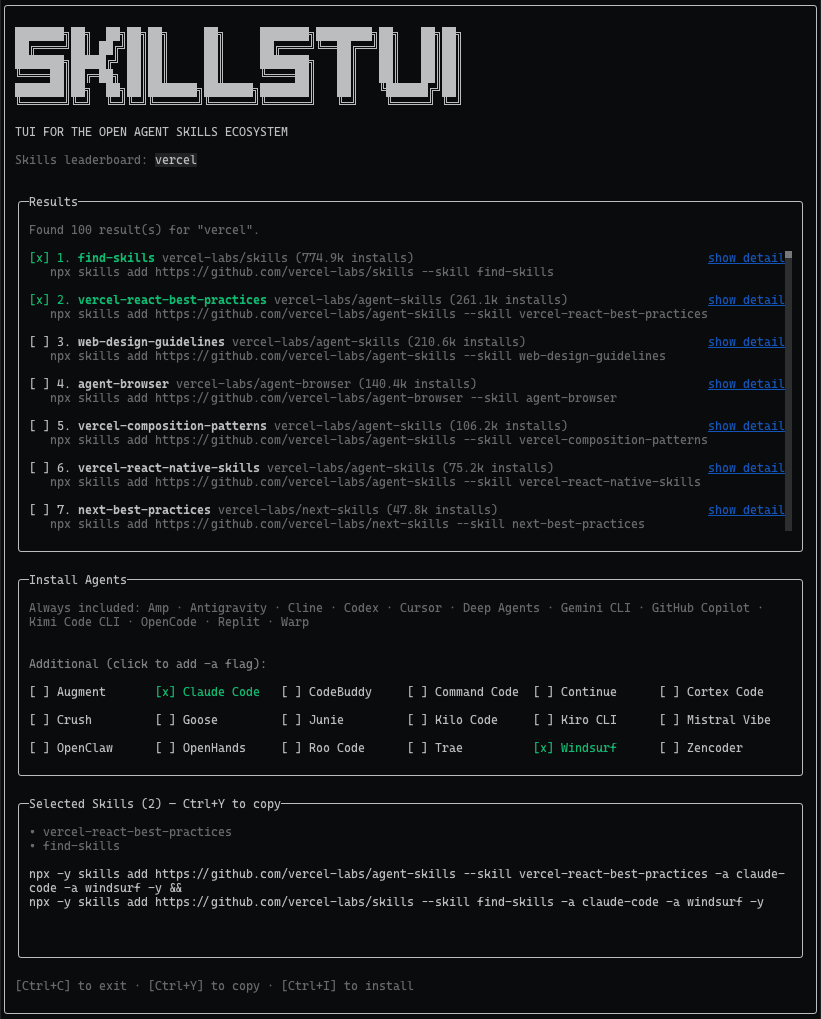
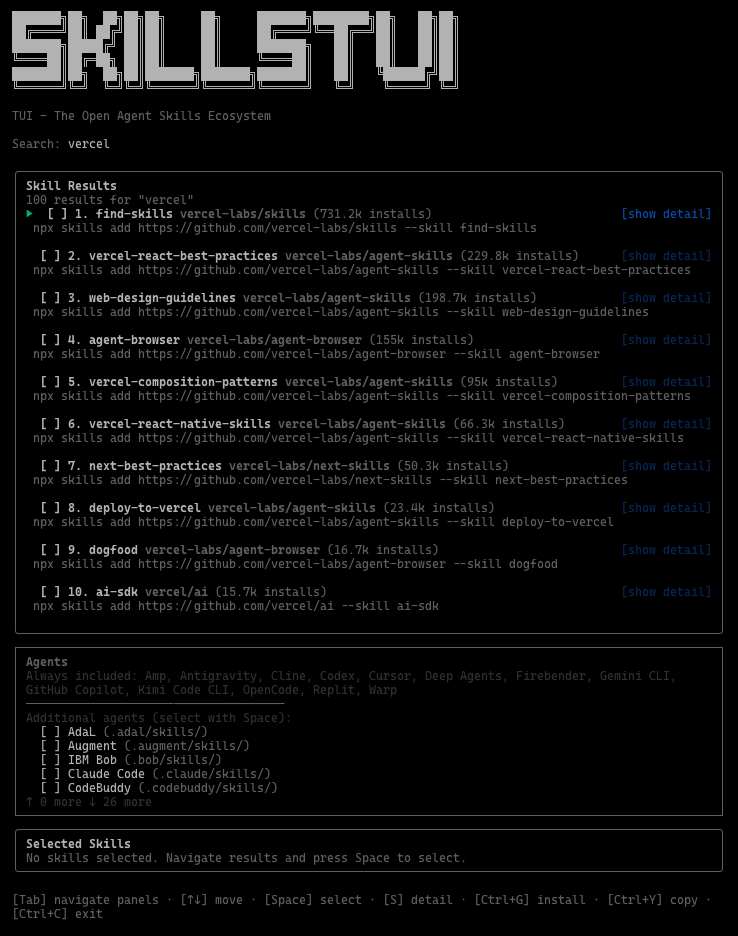
chore: add fullscreen-ink dependency and update UI components
- Integrated 'fullscreen-ink' as a dependency in package.json and bun.lock.
- Modified the main application entry point to utilize fullscreen capabilities.
- Adjusted UI components for improved styling and layout, including color changes and text wrapping.
- Reduced the maximum display lines in SelectionPanel for better usability.

diff --git a/packages/skillsTUI/src/ui/SkillCard.tsx b/packages/skillsTUI/src/ui/SkillCard.tsx
@@ -1,3 +1,4 @@
+import { useScreenSize } from 'fullscreen-ink'
 import { Box, Text } from 'ink'
 import {
   CHECKBOX_CHECKED,
@@ -18,6 +19,8 @@ interface Props {
 }
 
 export function SkillCard({ skill, index, isSelected, isFocused }: Props) {
+  const { width } = useScreenSize()
+  const isWide = width >= 100
   const checkbox = isSelected ? CHECKBOX_CHECKED : CHECKBOX_EMPTY
   const nameColor = isSelected ? COLOR_GREEN : COLOR_WHITE
   const focusIndicator = isFocused ? '▶ ' : '  '
@@ -29,18 +32,23 @@ export function SkillCard({ skill, index, isSelected, isFocused }: Props) {
           <Text color={COLOR_GREEN}>{focusIndicator}</Text>
           <Text color={nameColor} bold>
             {checkbox} {index + 1}. {skill.name}{' '}
-            <Text color={COLOR_GRAY}>{skill.source}</Text>{' '}
+            {isWide && <Text color={COLOR_GRAY}>{skill.source}</Text>}
+            {' '}
           </Text>
           <Text color={COLOR_GRAY}>
             ({formatInstallCount(skill.installs)} installs)
           </Text>
         </Box>
-        <Text color={COLOR_BLUE} dimColor={!isFocused}>
-          {' '}
-          [show detail]
-        </Text>
+        {isWide && (
+          <Text color={COLOR_BLUE} dimColor={!isFocused}>
+            {' '}
+            [detail]
+          </Text>
+        )}
       </Box>
-      <Text color={COLOR_GRAY}> {skill.command}</Text>
+      <Text color={COLOR_GRAY} wrap="truncate-end">
+        {skill.command}
+      </Text>
     </Box>
   )
 }

diff --git a/packages/skillsTUI/src/ui/SelectionPanel.tsx b/packages/skillsTUI/src/ui/SelectionPanel.tsx
@@ -16,7 +16,7 @@ interface Props {
   copyStatus: 'idle' | 'success' | 'error'
 }
 
-const MAX_DISPLAY_LINES = 5
+const MAX_DISPLAY_LINES = 1
 
 export const SelectionPanel = memo(function SelectionPanel({
   selectedSkills,
@@ -81,7 +81,7 @@ export const SelectionPanel = memo(function SelectionPanel({
           <Text color={COLOR_WHITE}>{namesLine}</Text>
           <Box flexDirection="column" marginTop={1}>
             {visibleCommandLines.map((line, i) => (
-              <Text key={i} color={COLOR_GRAY}>
+              <Text key={i} color={COLOR_GRAY} wrap="truncate">
                 {line}
               </Text>
             ))}

diff --git a/packages/skillsTUI/src/ui/App.tsx b/packages/skillsTUI/src/ui/App.tsx
@@ -55,10 +55,10 @@ export function App() {
 
   return (
     <Box flexDirection="column" padding={2}>
-      <Box flexDirection="column" marginBottom={1}>
+      <Box flexDirection="column">
         <Logo />
+        <Text color={COLOR_GRAY}>{SUBTITLE_LINES}</Text>
       </Box>
-      <Text color={COLOR_GRAY}>{SUBTITLE_LINES}</Text>
 
       <Box marginTop={1}>
         <SearchInput

diff --git a/packages/skillsTUI/src/ui/AgentSelector.tsx b/packages/skillsTUI/src/ui/AgentSelector.tsx
@@ -45,7 +45,7 @@ export const AgentSelector = memo(function AgentSelector({
       borderColor={COLOR_GRAY}
       paddingX={1}
     >
-      <Text color={COLOR_GRAY} bold>
+      <Text color={COLOR_WHITE} bold>
         Agents
       </Text>
       <Text color={COLOR_GRAY} dimColor>

diff --git a/packages/skillsTUI/src/index.tsx b/packages/skillsTUI/src/index.tsx
@@ -1,4 +1,6 @@
-import { render } from 'ink'
+import { withFullScreen } from 'fullscreen-ink'
 import { App } from './ui/App.tsx'
 
-render(<App />)
+const app = withFullScreen(<App />)
+await app.start()
+await app.waitUntilExit()

diff --git a/packages/skillsTUI/tsup.config.ts b/packages/skillsTUI/tsup.config.ts
@@ -15,6 +15,7 @@ export default defineConfig({
     'ink-scroll-list',
     'ink-spinner',
     'ink-text-input',
+    'fullscreen-ink',
   ],
   external: [
     'react-devtools-core',
